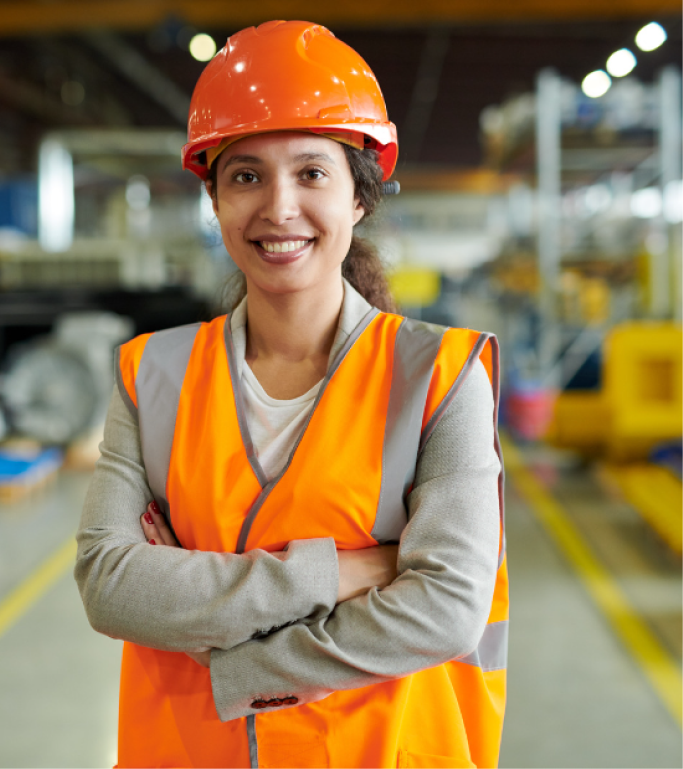
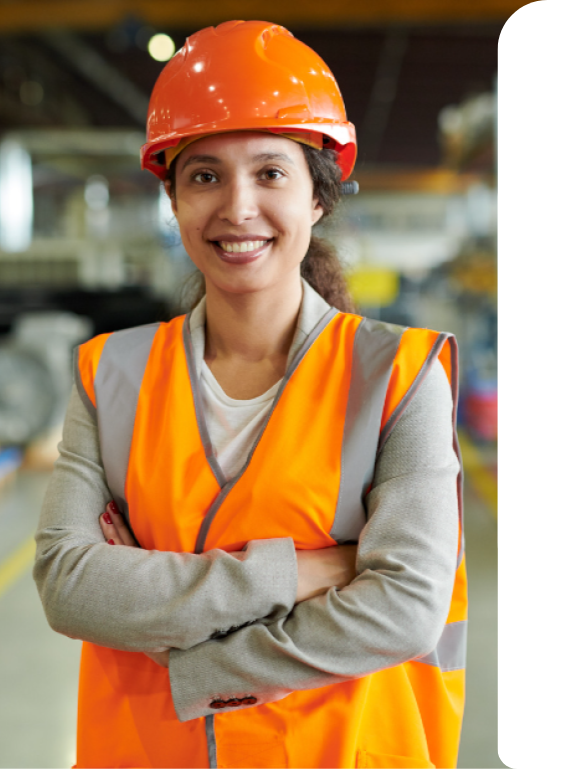
home em processo

diff --git a/src/Pages/Home/Home.js b/src/Pages/Home/Home.js
@@ -4,10 +4,15 @@ import imageHome from "../../imagens/imageHome.png";
 
 const Home  = () => {
     return(
+
+
     <div className="ContainerHome">
-            <div className="imageHome">
-                <img src={imageHome}></img>
-            </div>
+
+        <section className="sectionHome">
+            
+        <div className="imageHome">
+                <img src={imageHome} className="imagehome"></img>
+        </div>
         <div className="formHome">
             <div>
                 <h1>Olá</h1>
@@ -24,6 +29,9 @@ const Home  = () => {
                 <button>Login</button>
              </div>
         </div>
+
+        </section>
+
     </div>
 
     )

diff --git a/src/Pages/Home/home.css b/src/Pages/Home/home.css
@@ -1,14 +1,34 @@
-body {
-  background-color: #02BAEE;
-  font-family: Arial, Helvetica, sans-serif
-}
+
 
 .ContainerHome{
+  padding: 0;
+  margin: 0;
+  box-sizing: border-box;
+  background-color: #02BAEE;
+  height: 100vh;
+  font-family: Arial, Helvetica, sans-serif;
   display: flex;
   align-items: center;
+  justify-content: center;
+}
+.sectionHome{
+  display: flex;
+  border-radius: 20px;
+  background-color: rgb(255, 255, 255);
+  width: 70%;
+}
+.imageHome{
+width: 45%;
+}
+.imagehome{
+width: 100%;
+height: 100%;
+border-radius: 20px;
 }
 
+
 .formHome{
+  width: 45%;
   display: block;
   align-items: center;
 }

diff --git a/src/Styles/global.js b/src/Styles/global.js
@@ -1,0 +1,13 @@
+import { createGlobalStyle } from "styled-components";
+
+const GlobalStyle = createGlobalStyle`
+
+  * {
+    margin: 0;
+    padding: 0;
+    box-sizing: border-box;
+  }
+
+`;
+
+export default GlobalStyle;

diff --git a/src/App.js b/src/App.js
@@ -1,10 +1,12 @@
 
 import AppRoutes from './routes/Routes';
+import GlobalStyle from "./Styles/global";
 
 
 function App() {
   return (
     <div>
+       <GlobalStyle />
       <AppRoutes/>
     </div>
   );
